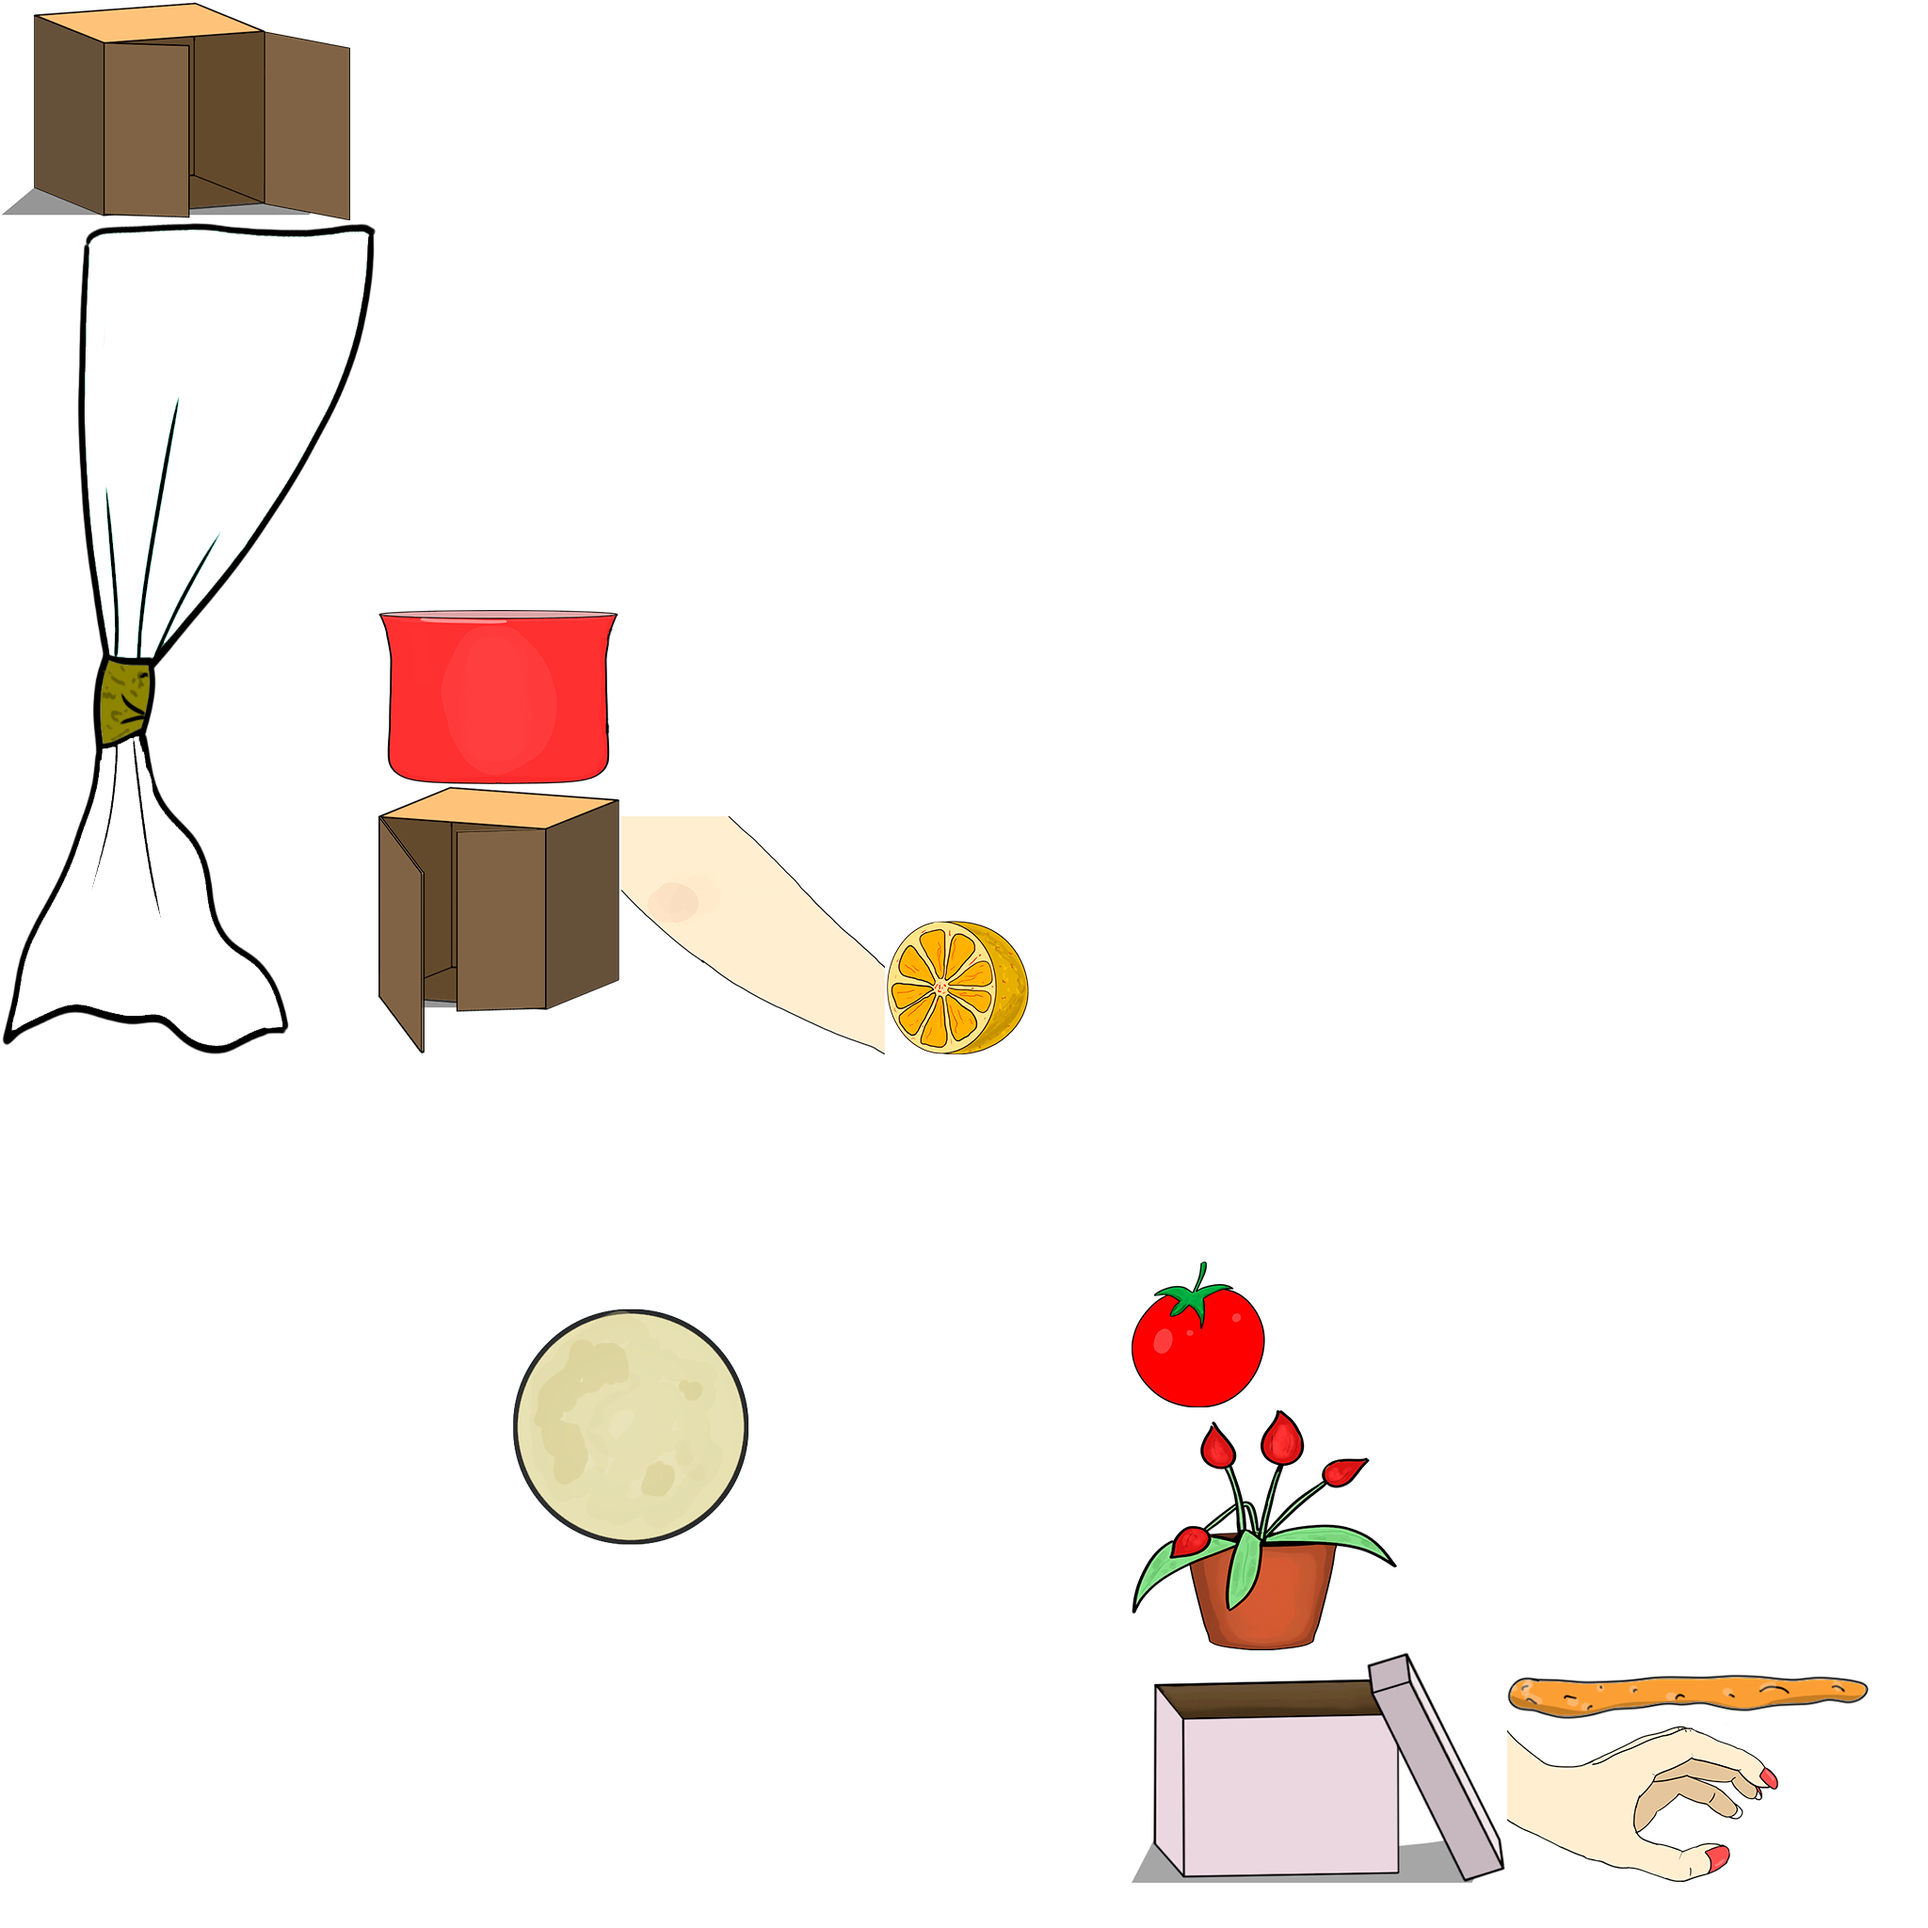
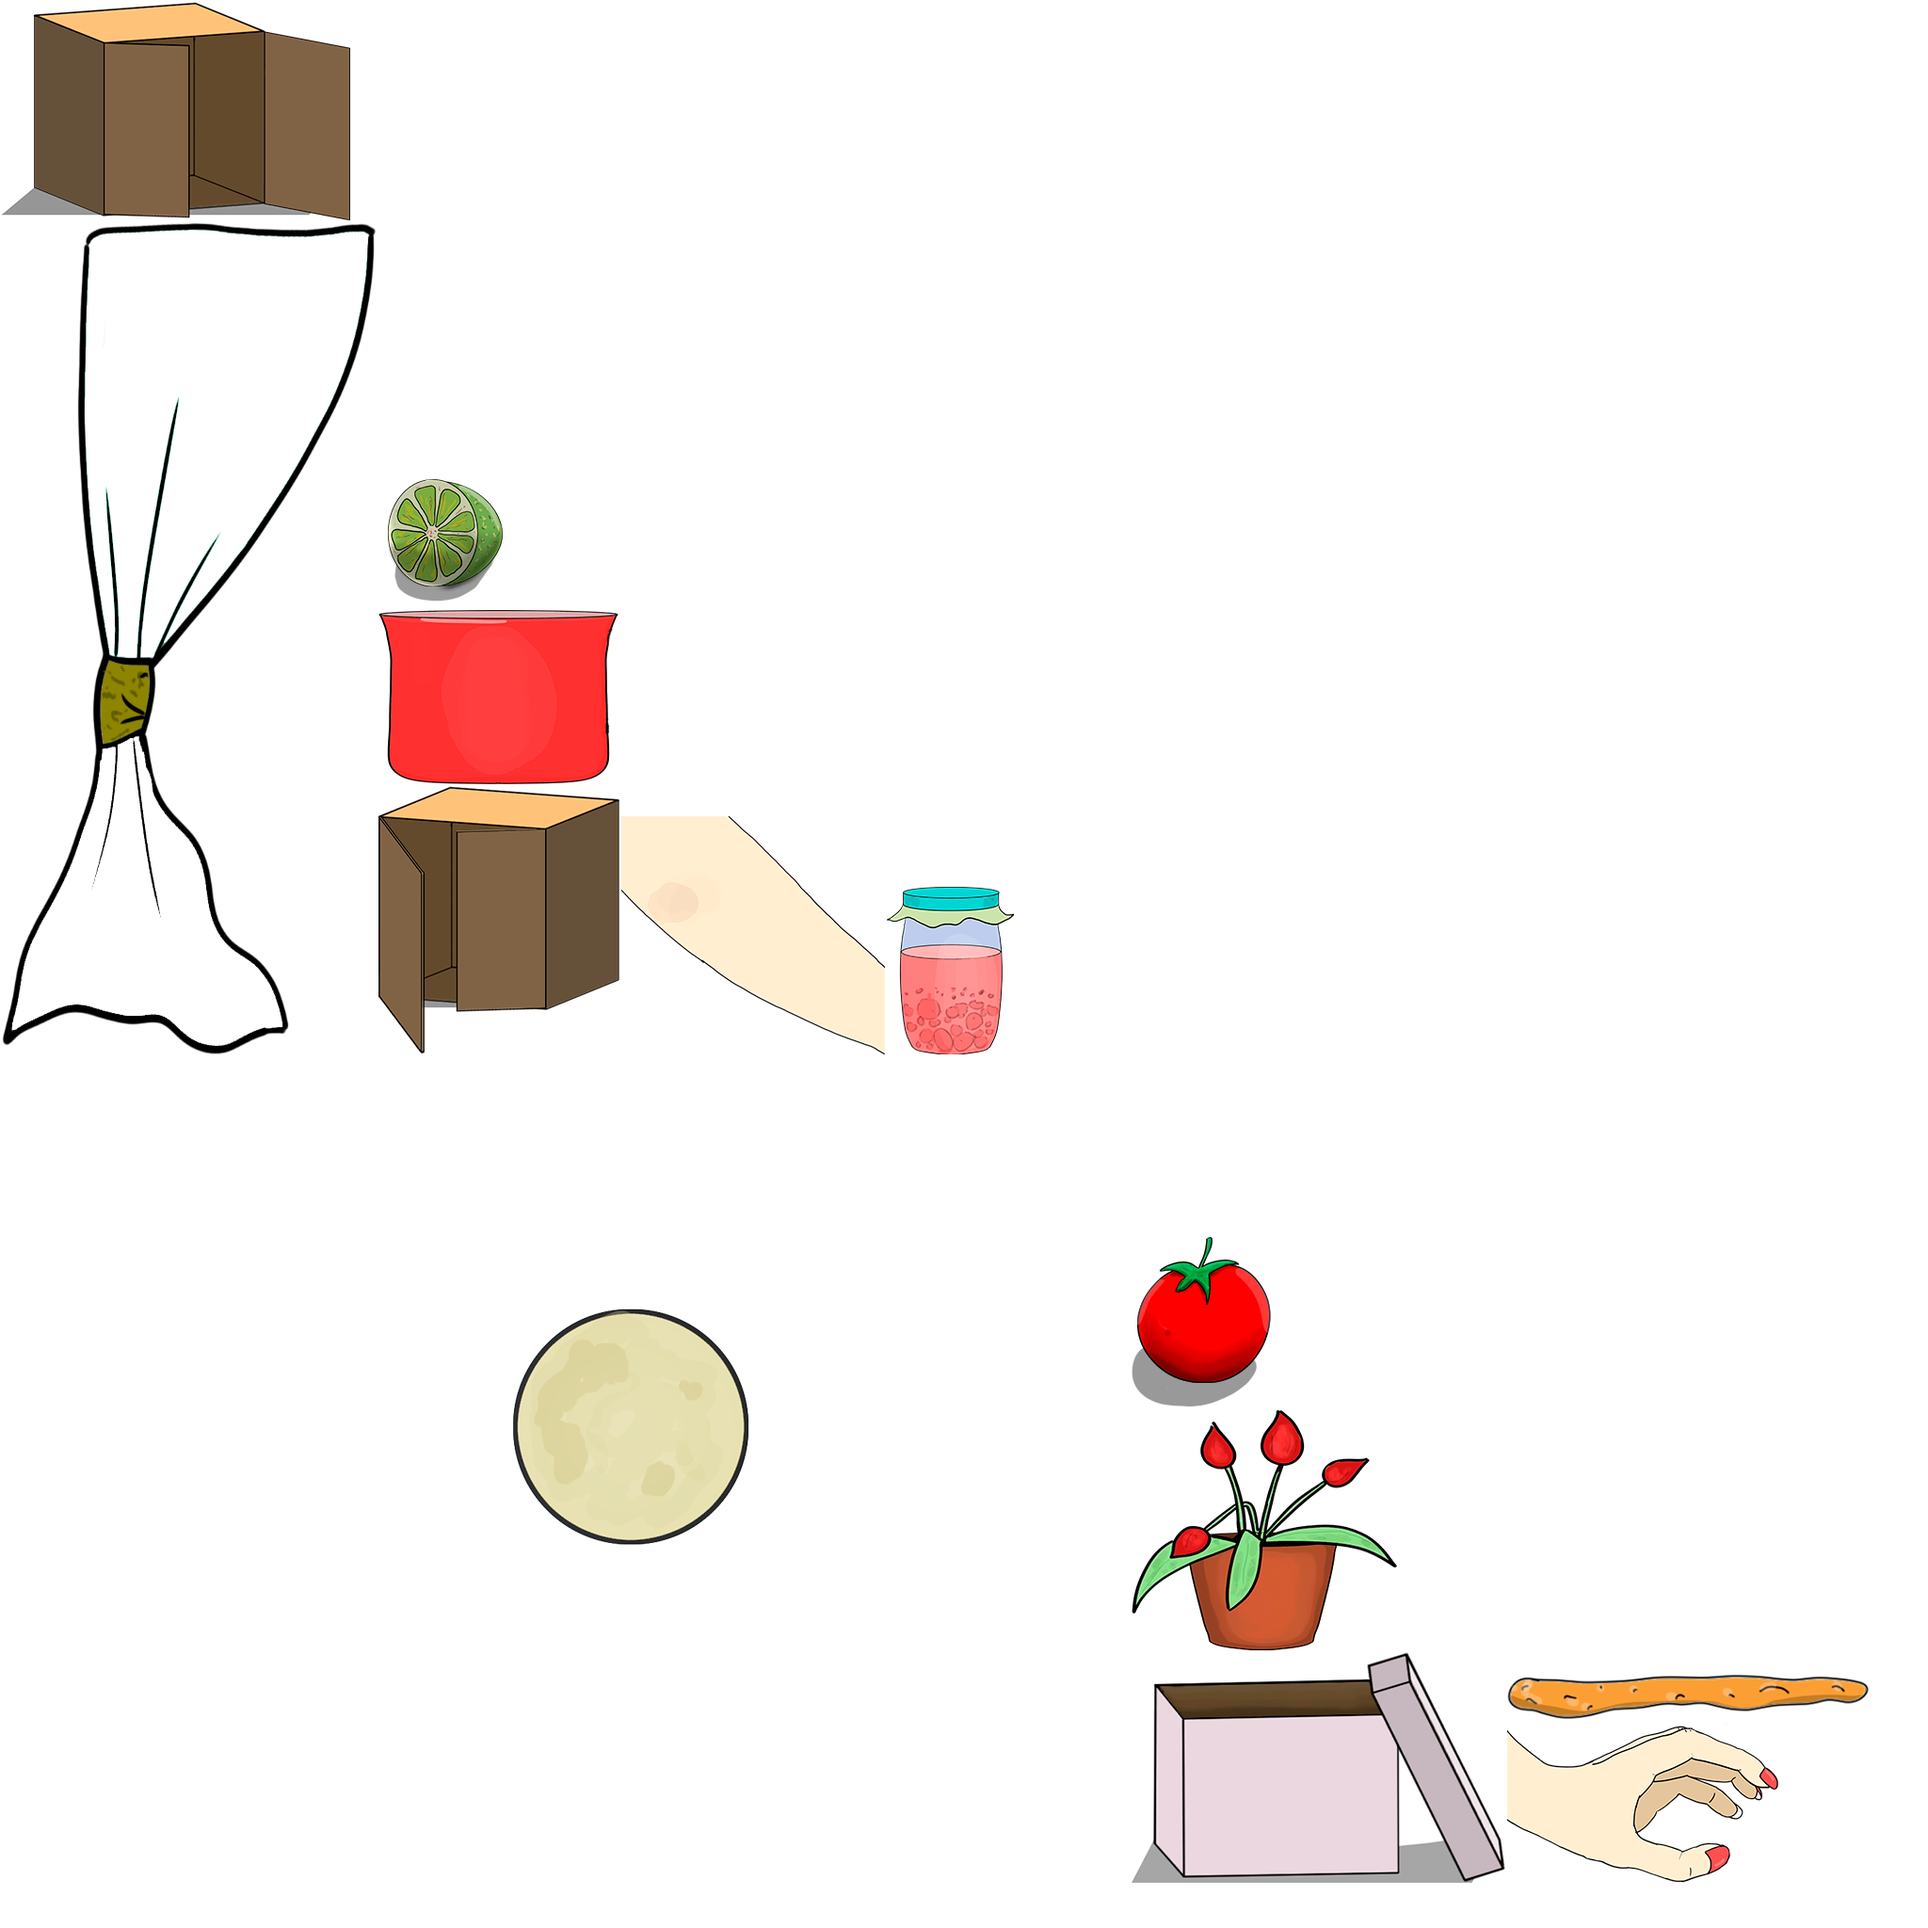
(feature) add a shadow to lime, orange, apple actors

Changed region(s): [[0.4375, 0.4375, 0.5312, 0.5625], [0.5625, 0.6562, 0.6562, 0.75], [0.1875, 0.25, 0.2812, 0.3125]]

diff --git a/core/src/com/mygdx/game/actors/game/RandomTableItem.kt b/core/src/com/mygdx/game/actors/game/RandomTableItem.kt
@@ -2,6 +2,7 @@ package com.mygdx.game.actors.game
 
 import com.badlogic.gdx.Gdx
 import com.badlogic.gdx.assets.AssetManager
+import com.badlogic.gdx.graphics.GL20
 import com.badlogic.gdx.graphics.g2d.Batch
 import com.badlogic.gdx.graphics.g2d.TextureAtlas
 import com.badlogic.gdx.graphics.glutils.ShapeRenderer
@@ -95,7 +96,7 @@ class RandomTableItem(manager : AssetManager,
     }
 
     private fun setRandomItem(){
-        when(14){//rand.nextInt(15)
+        when(rand.nextInt(15)){//rand.nextInt(15)
             1 -> {
                 region = texture.findRegion(Assets.EnvironmentAtlas.BOX1)
                 val boundHeight = region.originalHeight.toFloat() - 25 - 20
@@ -155,7 +156,7 @@ class RandomTableItem(manager : AssetManager,
                 val boundHeight = region.originalHeight.toFloat() -40
                 val boundWidth = region.originalWidth.toFloat() -50
                 startBound = Rectangle(40f, 0f, boundWidth, boundHeight)
-                y = table.worktopY -20
+                y = table.worktopY -30
                 jumpOnSound = Sound.JUMP_ON_BOX
                 structure = Structure.NORMAL
             }
@@ -164,7 +165,7 @@ class RandomTableItem(manager : AssetManager,
                 val boundHeight = region.originalHeight.toFloat() -60
                 val boundWidth = region.originalWidth.toFloat() -80
                 startBound = Rectangle(40f, 0f, boundWidth, boundHeight)
-                y = table.worktopY -20
+                y = table.worktopY -30
                 jumpOnSound = Sound.JUMP_ON_BOX
                 structure = Structure.NORMAL
             }
@@ -173,7 +174,7 @@ class RandomTableItem(manager : AssetManager,
                 val boundHeight = region.originalHeight.toFloat() -5
                 val boundWidth = region.originalWidth.toFloat() -80
                 startBound = Rectangle(40f, 0f, boundWidth, boundHeight)
-                y = table.worktopY -20
+                y = table.worktopY -30
                 jumpOnSound = Sound.JUMP_ON_BOX
                 structure = Structure.NORMAL
             }
@@ -182,7 +183,7 @@ class RandomTableItem(manager : AssetManager,
                 val boundHeight = region.originalHeight.toFloat() -5
                 val boundWidth = region.originalWidth.toFloat() -80
                 startBound = Rectangle(40f, 0f, boundWidth, boundHeight)
-                y = table.worktopY -20
+                y = table.worktopY -30
                 jumpOnSound = Sound.JUMP_ON_BOX
                 structure = Structure.NORMAL
             }
@@ -213,10 +214,10 @@ class RandomTableItem(manager : AssetManager,
             14-> {
                 region = texture.findRegion(Assets.EnvironmentAtlas.OPEN_BOX)
                 val boundHeight = region.originalHeight.toFloat() - 35 - 15
-                val boundWidth = region.originalWidth.toFloat() - 90 - 65
-                startBound = Rectangle(65f, 25f, boundWidth, boundHeight)
+                val boundWidth = region.originalWidth.toFloat() - 90 - 32
+                startBound = Rectangle(32f, 25f, boundWidth, boundHeight)
                 y = table.worktopY - 35f
-                structure = Structure.JELLY
+                structure = Structure.NORMAL
             }
             else -> {
                 region = texture.findRegion(Assets.EnvironmentAtlas.BOX2)
@@ -241,10 +242,12 @@ class RandomTableItem(manager : AssetManager,
         val height = region.originalHeight.toFloat()
         if(startAct) batch!!.draw(region, x, y, x,y,  width, height, scaleX, scaleY, rotation)
 /*        if(startAct){
+            Gdx.gl.glEnable(GL20.GL_BLEND)
             shape.setAutoShapeType(true)
             shape.begin()
             shape.rect(bound.x, bound.y, bound.width, bound.height)
             shape.end()
+            Gdx.gl.glDisable(GL20.GL_BLEND)
         }*/
     }
 

diff --git a/core/src/com/mygdx/game/GdxGame.kt b/core/src/com/mygdx/game/GdxGame.kt
@@ -8,7 +8,7 @@ class GdxGame : Game() {
 
     override fun create() {
         ScreenManager.game = this
-        ScreenManager.setScreen(START_SCREEN)
+        ScreenManager.setScreen(GAME_SCREEN)
     }
 
     override fun render() {

diff --git a/core/src/com/mygdx/game/api/Scrolled.kt b/core/src/com/mygdx/game/api/Scrolled.kt
@@ -45,6 +45,6 @@ open class Scrolled(val originX: Float,
         LEVEL_1(-200f),//50
         LEVEL_2(LEVEL_1.value * 3),
         SLOW_MOVE(LEVEL_1.value / 1.1f),
-        FAST_MOVE(100f)
+        FAST_MOVE(30f)
     }
 }
